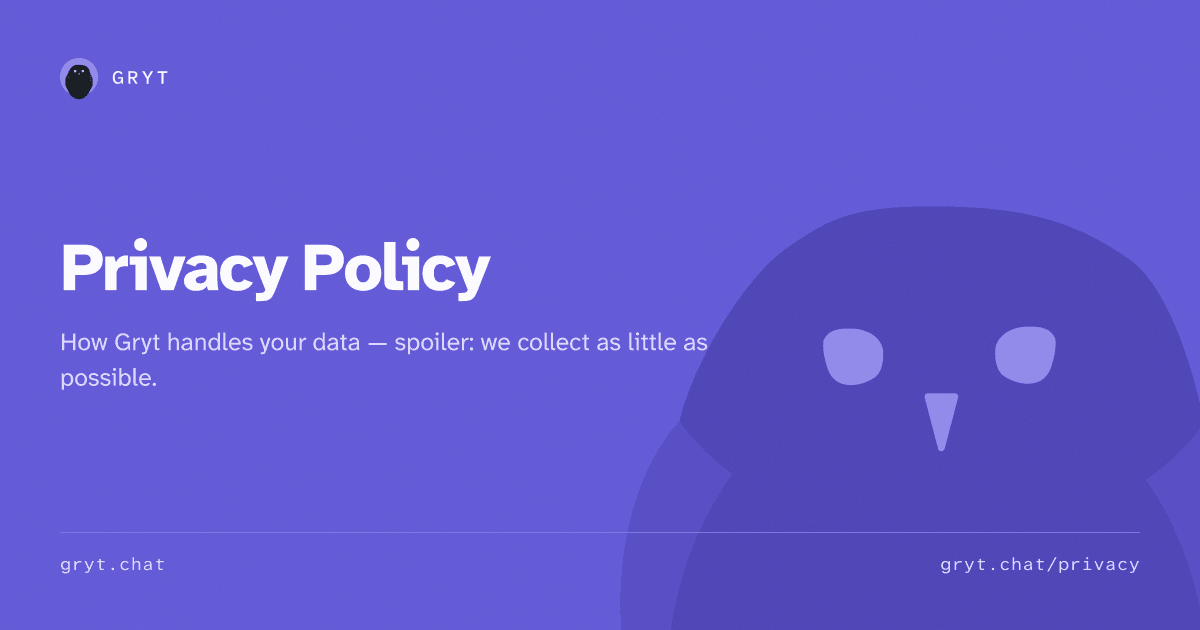
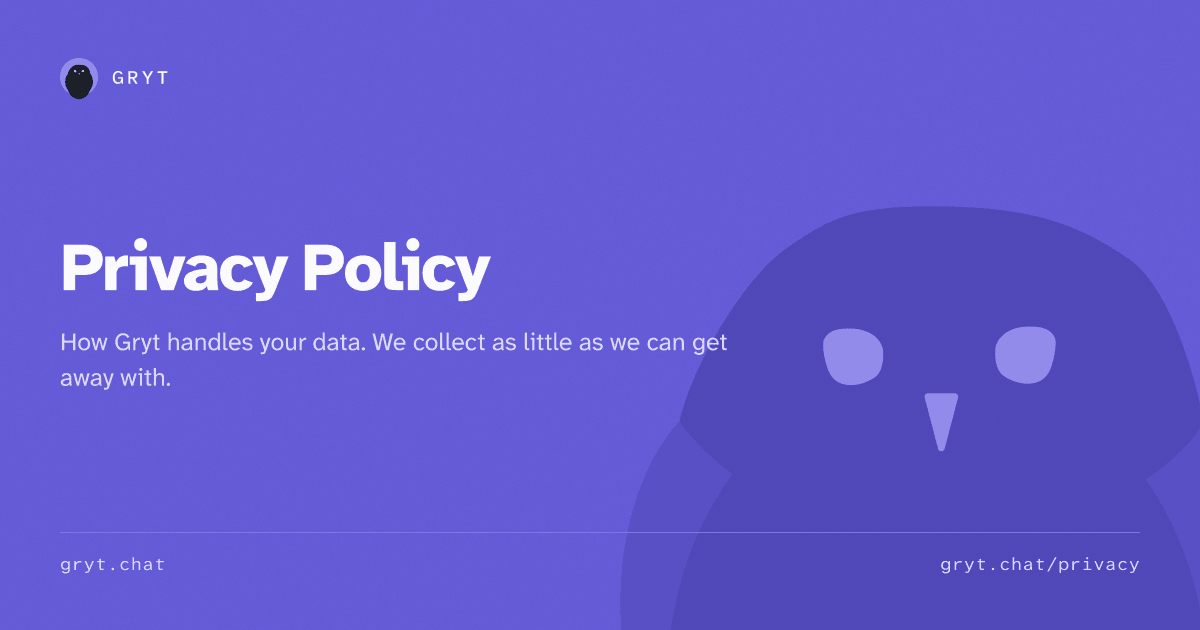
Give every page a "| Gryt" title suffix
Titles were set in four places with three different conventions: the
index.html template, a map in App.tsx, and one-off document.title writes in
the two changelog pages and BlogPost. Home read just "Gryt" once the router
mounted, a blog post read only its own headline, and the changelog pages used
a middot.

Now every page reads "<name> | Gryt", and 1.4.0 reads "1.4.0 | Changelog |
Gryt". Home keeps the brand in front, since it has no page name to lead with.

The suffix goes on <title> only. og:title stays bare: the share card image
already says Gryt, and Discord truncates the line. The rule lives in
src/lib/title.ts for the router and in prerender-blog.mjs for the crawlers,
which never run the router.

Also takes the last three em dashes out of the head. The writing pass caught
two in document.title and missed index.html entirely, so the tab and both
share-card titles still carried one. The privacy description loses its "—
spoiler:" aside, which was drawn into privacy/og.png as well, so that card is
regenerated. The generator is deterministic and no other card changed.

Changed region(s): [[0.3083, 0.5127, 0.6167, 0.573], [0.0617, 0.573, 0.1542, 0.6333]]

diff --git a/index.html b/index.html
@@ -9,7 +9,7 @@
 
     <!-- Open Graph -->
     <meta property="og:type" content="website" />
-    <meta property="og:title" content="Gryt — Voice, Text & Video Chat" />
+    <meta property="og:title" content="Gryt | Voice, Text & Video Chat" />
     <meta property="og:description" content="Gryt is a self-hosted, open-source platform for voice, text, and video chat. Own your data. Host your server. Build your client." />
     <meta property="og:image" content="https://gryt.chat/og-image.png" />
     <meta property="og:image:width" content="1200" />
@@ -21,7 +21,7 @@
 
     <!-- Twitter Card -->
     <meta name="twitter:card" content="summary_large_image" />
-    <meta name="twitter:title" content="Gryt — Voice, Text & Video Chat" />
+    <meta name="twitter:title" content="Gryt | Voice, Text & Video Chat" />
     <meta name="twitter:description" content="Self-hosted, open-source platform for voice, text, and video chat. Own your data. Host your server." />
     <meta name="twitter:image" content="https://gryt.chat/og-image.png" />
 
@@ -31,7 +31,7 @@
     <link rel="me" href="https://mastodon.social/@gryt" />
     <meta name="fediverse:creator" content="@gryt@mastodon.social" />
     <link rel="canonical" href="https://gryt.chat" />
-    <title>Gryt — Voice, Text & Video Chat</title>
+    <title>Gryt | Voice, Text & Video Chat</title>
   </head>
   <body>
     <div id="root"></div>

diff --git a/src/App.tsx b/src/App.tsx
@@ -13,19 +13,20 @@ import { CommunityGuidelines } from "./pages/CommunityGuidelines";
 import { InvitePage } from "./pages/InvitePage";
 import { TermsOfUse } from "./pages/TermsOfUse";
 import { WhyGryt } from "./pages/WhyGryt";
+import { HOME_TITLE, pageTitle } from "./lib/title";
 
 const pageTitles: Record<string, string> = {
-  '/': 'Gryt',
-  '/why-gryt': 'Why Gryt?',
-  '/blog': 'Blog',
-  '/privacy': 'Privacy Policy',
-  '/privacy-policy': 'Privacy Policy',
-  '/terms': 'Terms of Use',
-  '/terms-of-use': 'Terms of Use',
-  '/community-guidelines': 'Community Guidelines',
-  '/guidelines': 'Community Guidelines',
-  '/invite': 'Invite',
-  '/auth/callback': 'Gryt',
+  '/': HOME_TITLE,
+  '/why-gryt': pageTitle('Why Gryt?'),
+  '/blog': pageTitle('Blog'),
+  '/privacy': pageTitle('Privacy Policy'),
+  '/privacy-policy': pageTitle('Privacy Policy'),
+  '/terms': pageTitle('Terms of Use'),
+  '/terms-of-use': pageTitle('Terms of Use'),
+  '/community-guidelines': pageTitle('Community Guidelines'),
+  '/guidelines': pageTitle('Community Guidelines'),
+  '/invite': pageTitle('Invite'),
+  '/auth/callback': HOME_TITLE,
 };
 
 function ScrollAndTitle() {

diff --git a/src/lib/title.ts b/src/lib/title.ts
@@ -1,0 +1,20 @@
+/**
+ * Document titles.
+ *
+ * Every page reads `<name> | Gryt`, so a tab strip with four Gryt pages open
+ * is still readable and a search result carries the brand without the page
+ * having to repeat it in its own heading.
+ *
+ * The crawlers never run this code. `scripts/prerender-blog.mjs` writes the
+ * same titles into the static HTML it emits per route, and it has its own copy
+ * of `SITE_NAME` and `pageTitle` for that reason. Change one, change the other.
+ */
+
+export const SITE_NAME = 'Gryt'
+
+/** The home page leads with the brand, since there is no page name to lead with. */
+export const HOME_TITLE = `${SITE_NAME} | Voice, Text & Video Chat`
+
+export function pageTitle(name: string): string {
+  return `${name} | ${SITE_NAME}`
+}

diff --git a/src/pages/ChangelogEntry.tsx b/src/pages/ChangelogEntry.tsx
@@ -2,6 +2,7 @@ import { useEffect } from 'react'
 import { useParams, Link, Navigate } from 'react-router-dom'
 import { MdChevronLeft } from 'react-icons/md'
 import { getRelease } from '../lib/changelog'
+import { pageTitle } from '../lib/title'
 import { LightboxImage } from '../components/Lightbox'
 import styles from './ChangelogEntry.module.css'
 import type { ComponentPropsWithoutRef } from 'react'
@@ -70,7 +71,7 @@ export function ChangelogEntry() {
 
   useEffect(() => {
     if (release) {
-      document.title = `Gryt ${release.frontmatter.version} · Changelog`
+      document.title = pageTitle(`${release.frontmatter.version} | Changelog`)
     }
   }, [release])
 

diff --git a/src/pages/BlogPost.tsx b/src/pages/BlogPost.tsx
@@ -2,6 +2,7 @@ import { lazy, Suspense, useEffect } from 'react'
 import { useParams, Link, Navigate } from 'react-router-dom'
 import { MdChevronLeft } from 'react-icons/md'
 import { getPost } from '../lib/blog'
+import { pageTitle } from '../lib/title'
 import { LightboxImage } from '../components/Lightbox'
 import styles from './BlogPost.module.css'
 import type { ComponentPropsWithoutRef } from 'react'
@@ -37,7 +38,7 @@ export function BlogPost() {
 
   useEffect(() => {
     if (post) {
-      document.title = post.frontmatter.title
+      document.title = pageTitle(post.frontmatter.title)
     }
   }, [post])
 

diff --git a/src/pages/ChangelogIndex.tsx b/src/pages/ChangelogIndex.tsx
@@ -1,11 +1,12 @@
 import { Link } from 'react-router-dom'
 import { useEffect } from 'react'
 import { releases } from '../lib/changelog'
+import { pageTitle } from '../lib/title'
 import styles from './ChangelogIndex.module.css'
 
 export function ChangelogIndex() {
   useEffect(() => {
-    document.title = 'Changelog · Gryt'
+    document.title = pageTitle('Changelog')
   }, [])
 
   return (
